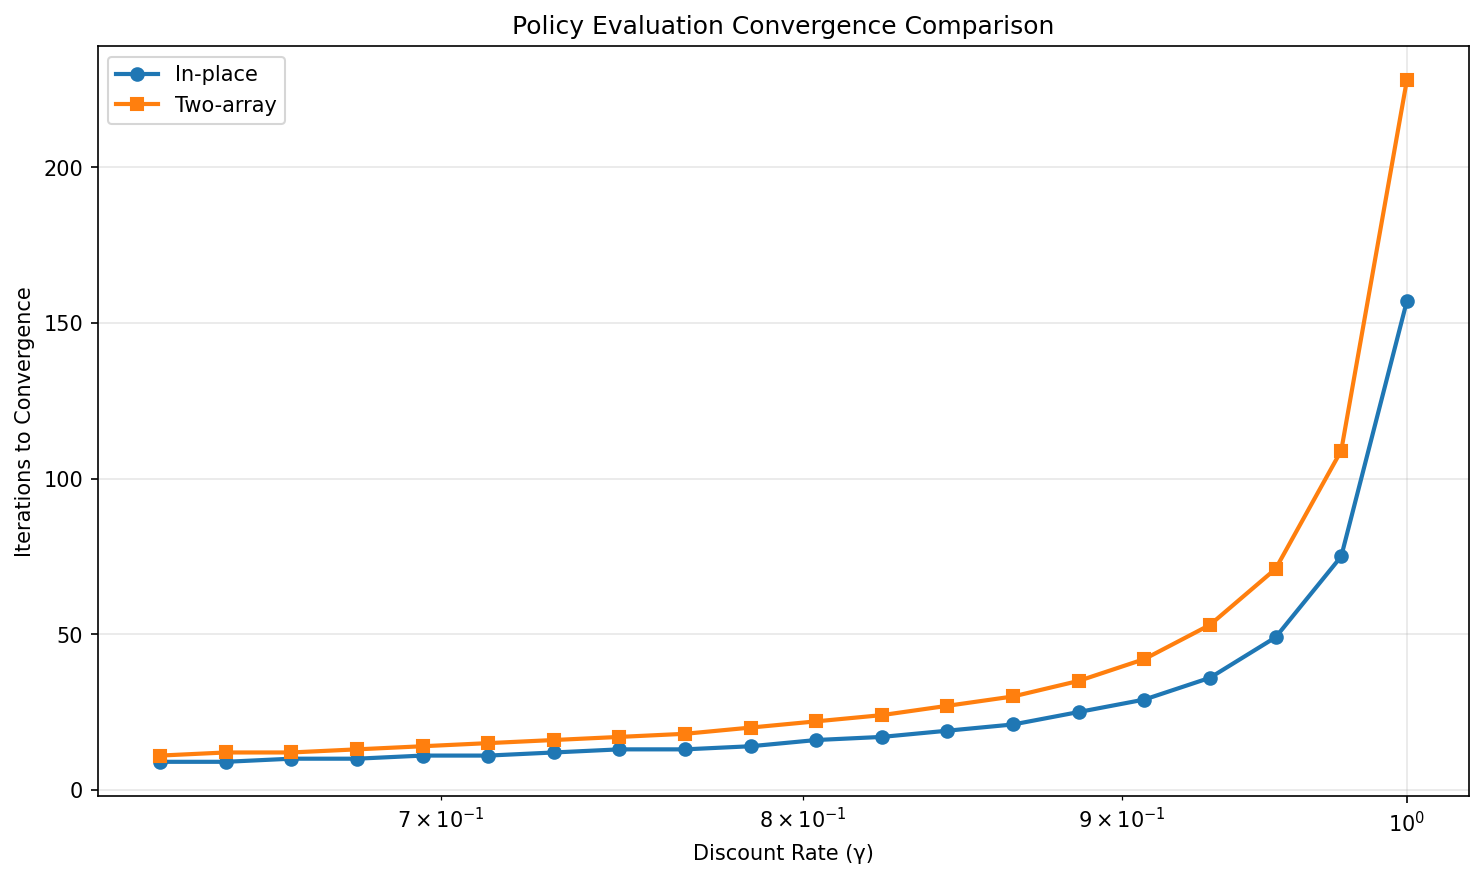
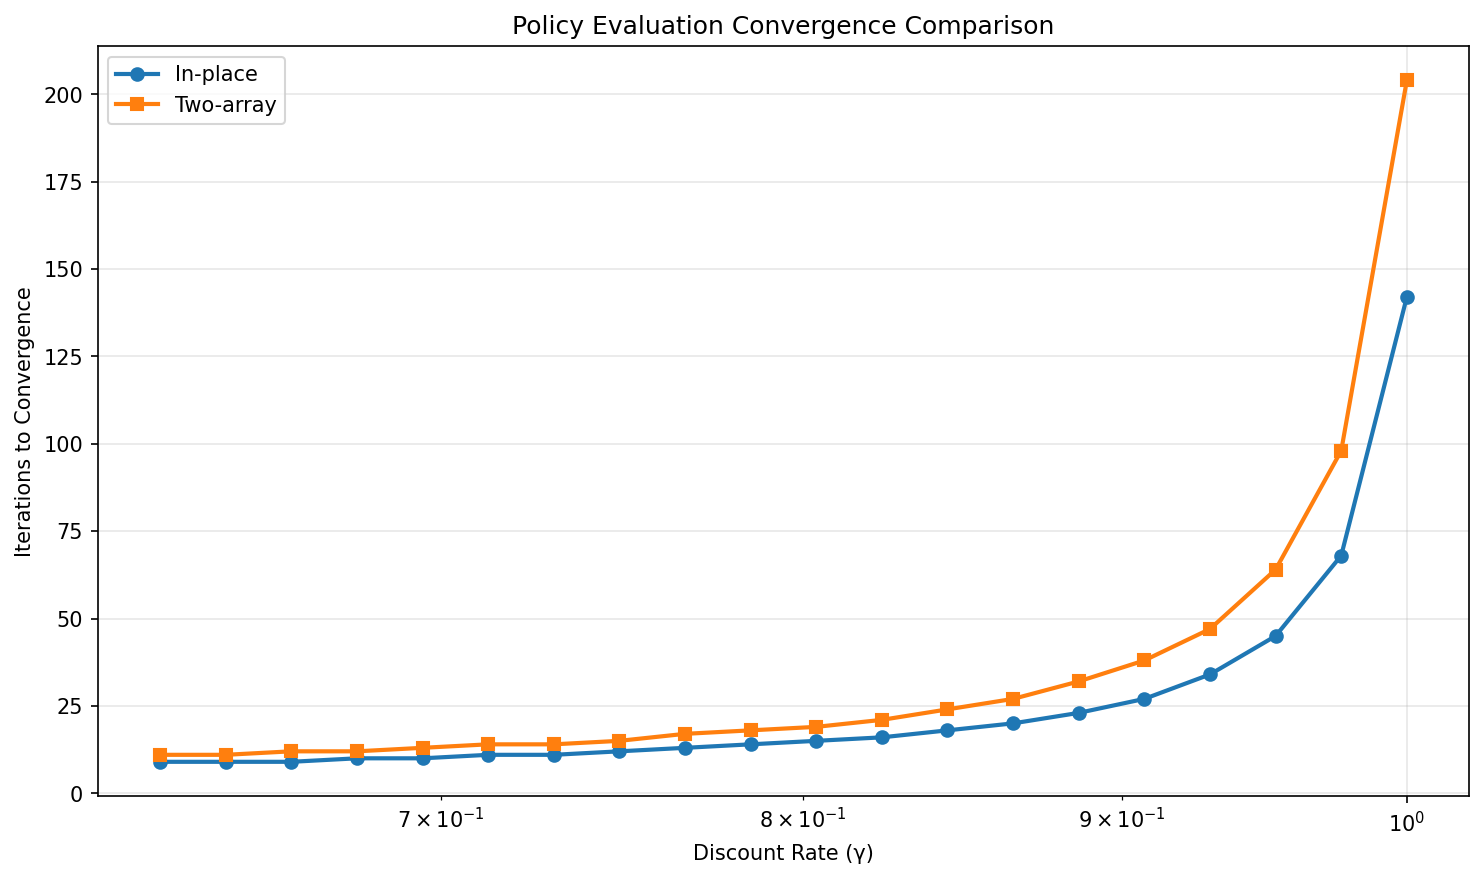
updated start and reward

diff --git a/Homework3.py b/Homework3.py
@@ -19,7 +19,7 @@ class GridWorldMDP:
         
         self.obstacles = set()
         
-        self.initial_state = (3, 3)
+        self.initial_state = (3, 0)
         self.goal_state = (0, 0)
         self.current_state = self.initial_state
     
@@ -50,7 +50,7 @@ class GridWorldMDP:
             new_state = self.current_state
         
         if self.current_state == self.goal_state:
-            reward = 0
+            reward = 20
             done = True
         else:
             reward = -1
@@ -98,7 +98,7 @@ def policy_evaluation_inplace(env, policy, gamma=1.0, theta=0.01, max_iterations
                 
                 #reward
                 if next_state == env.goal_state:
-                    reward = 0
+                    reward = 20
                 else:
                     reward = -1
                 
@@ -155,7 +155,7 @@ def policy_evaluation_two_array(env, policy, gamma=1.0, theta=0.01, max_iteratio
                 
                 #reward
                 if next_state == env.goal_state:
-                    reward = 0
+                    reward = 20
                 else:
                     reward = -1
                 
